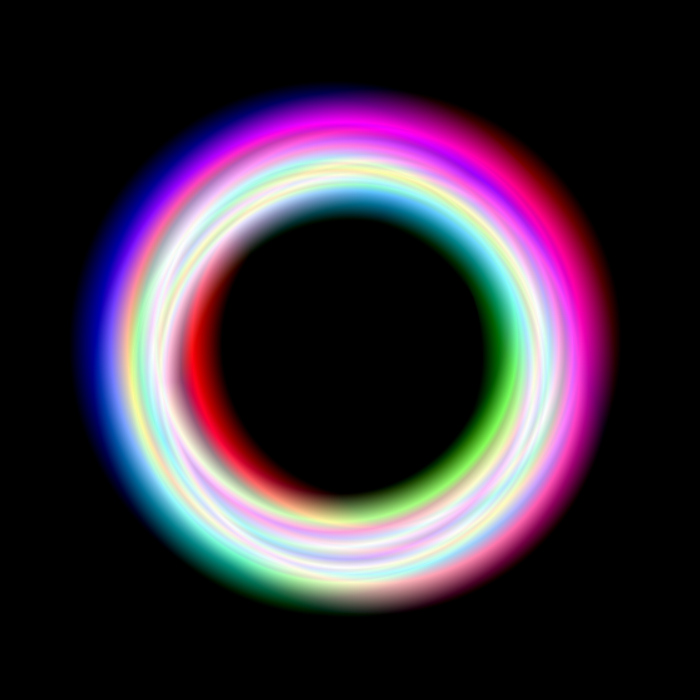
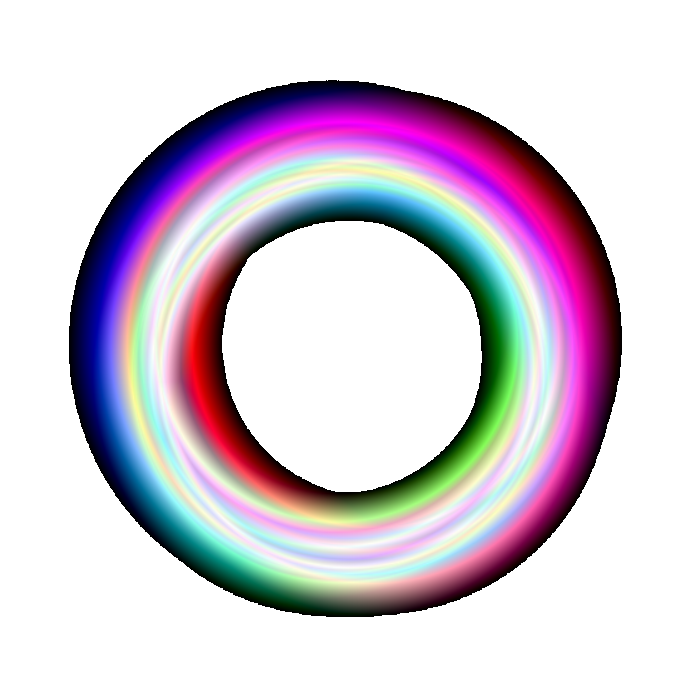
[master] Suppression jQuery

diff --git a/public/bundle.js b/public/bundle.js
@@ -1,1 +1,1 @@
-!function(t){var e={};function n(r){if(e[r])return e[r].exports;var o=e[r]={i:r,l:!1,exports:{}};return t[r].call(o.exports,o,o.exports,n),o.l=!0,o.exports}n.m=t,n.c=e,n.d=function(t,e,r){n.o(t,e)||Object.defineProperty(t,e,{enumerable:!0,get:r})},n.r=function(t){"undefined"!=typeof Symbol&&Symbol.toStringTag&&Object.defineProperty(t,Symbol.toStringTag,{value:"Module"}),Object.defineProperty(t,"__esModule",{value:!0})},n.t=function(t,e){if(1&e&&(t=n(t)),8&e)return t;if(4&e&&"object"==typeof t&&t&&t.__esModule)return t;var r=Object.create(null);if(n.r(r),Object.defineProperty(r,"default",{enumerable:!0,value:t}),2&e&&"string"!=typeof t)for(var o in t)n.d(r,o,function(e){return t[e]}.bind(null,o));return r},n.n=function(t){var e=t&&t.__esModule?function(){return t.default}:function(){return t};return n.d(e,"a",e),e},n.o=function(t,e){return Object.prototype.hasOwnProperty.call(t,e)},n.p="",n(n.s=7)}([function(t,e,n){"use strict";t.exports=function(t){var e=[];return e.toString=function(){return this.map((function(e){var n=function(t,e){var n=t[1]||"",r=t[3];if(!r)return n;if(e&&"function"==typeof btoa){var o=(a=r,s=btoa(unescape(encodeURIComponent(JSON.stringify(a)))),c="sourceMappingURL=data:application/json;charset=utf-8;base64,".concat(s),"/*# ".concat(c," */")),i=r.sources.map((function(t){return"/*# sourceURL=".concat(r.sourceRoot||"").concat(t," */")}));return[n].concat(i).concat([o]).join("\n")}var a,s,c;return[n].join("\n")}(e,t);return e[2]?"@media ".concat(e[2]," {").concat(n,"}"):n})).join("")},e.i=function(t,n,r){"string"==typeof t&&(t=[[null,t,""]]);var o={};if(r)for(var i=0;i<this.length;i++){var a=this[i][0];null!=a&&(o[a]=!0)}for(var s=0;s<t.length;s++){var c=[].concat(t[s]);r&&o[c[0]]||(n&&(c[2]?c[2]="".concat(n," and ").concat(c[2]):c[2]=n),e.push(c))}},e}},function(t,e,n){var r,o,i={},a=(r=function(){return window&&document&&document.all&&!window.atob},function(){return void 0===o&&(o=r.apply(this,arguments)),o}),s=function(t,e){return e?e.querySelector(t):document.querySelector(t)},c=function(t){var e={};return function(t,n){if("function"==typeof t)return t();if(void 0===e[t]){var r=s.call(this,t,n);if(window.HTMLIFrameElement&&r instanceof window.HTMLIFrameElement)try{r=r.contentDocument.head}catch(t){r=null}e[t]=r}return e[t]}}(),u=null,l=0,f=[],d=n(4);function h(t,e){for(var n=0;n<t.length;n++){var r=t[n],o=i[r.id];if(o){o.refs++;for(var a=0;a<o.parts.length;a++)o.parts[a](r.parts[a]);for(;a<r.parts.length;a++)o.parts.push(m(r.parts[a],e))}else{var s=[];for(a=0;a<r.parts.length;a++)s.push(m(r.parts[a],e));i[r.id]={id:r.id,refs:1,parts:s}}}}function p(t,e){for(var n=[],r={},o=0;o<t.length;o++){var i=t[o],a=e.base?i[0]+e.base:i[0],s={css:i[1],media:i[2],sourceMap:i[3]};r[a]?r[a].parts.push(s):n.push(r[a]={id:a,parts:[s]})}return n}function v(t,e){var n=c(t.insertInto);if(!n)throw new Error("Couldn't find a style target. This probably means that the value for the 'insertInto' parameter is invalid.");var r=f[f.length-1];if("top"===t.insertAt)r?r.nextSibling?n.insertBefore(e,r.nextSibling):n.appendChild(e):n.insertBefore(e,n.firstChild),f.push(e);else if("bottom"===t.insertAt)n.appendChild(e);else{if("object"!=typeof t.insertAt||!t.insertAt.before)throw new Error("[Style Loader]\n\n Invalid value for parameter 'insertAt' ('options.insertAt') found.\n Must be 'top', 'bottom', or Object.\n (https://github.com/webpack-contrib/style-loader#insertat)\n");var o=c(t.insertAt.before,n);n.insertBefore(e,o)}}function g(t){if(null===t.parentNode)return!1;t.parentNode.removeChild(t);var e=f.indexOf(t);e>=0&&f.splice(e,1)}function b(t){var e=document.createElement("style");if(void 0===t.attrs.type&&(t.attrs.type="text/css"),void 0===t.attrs.nonce){var r=function(){0;return n.nc}();r&&(t.attrs.nonce=r)}return y(e,t.attrs),v(t,e),e}function y(t,e){Object.keys(e).forEach((function(n){t.setAttribute(n,e[n])}))}function m(t,e){var n,r,o,i;if(e.transform&&t.css){if(!(i="function"==typeof e.transform?e.transform(t.css):e.transform.default(t.css)))return function(){};t.css=i}if(e.singleton){var a=l++;n=u||(u=b(e)),r=S.bind(null,n,a,!1),o=S.bind(null,n,a,!0)}else t.sourceMap&&"function"==typeof URL&&"function"==typeof URL.createObjectURL&&"function"==typeof URL.revokeObjectURL&&"function"==typeof Blob&&"function"==typeof btoa?(n=function(t){var e=document.createElement("link");return void 0===t.attrs.type&&(t.attrs.type="text/css"),t.attrs.rel="stylesheet",y(e,t.attrs),v(t,e),e}(e),r=j.bind(null,n,e),o=function(){g(n),n.href&&URL.revokeObjectURL(n.href)}):(n=b(e),r=M.bind(null,n),o=function(){g(n)});return r(t),function(e){if(e){if(e.css===t.css&&e.media===t.media&&e.sourceMap===t.sourceMap)return;r(t=e)}else o()}}t.exports=function(t,e){if("undefined"!=typeof DEBUG&&DEBUG&&"object"!=typeof document)throw new Error("The style-loader cannot be used in a non-browser environment");(e=e||{}).attrs="object"==typeof e.attrs?e.attrs:{},e.singleton||"boolean"==typeof e.singleton||(e.singleton=a()),e.insertInto||(e.insertInto="head"),e.insertAt||(e.insertAt="bottom");var n=p(t,e);return h(n,e),function(t){for(var r=[],o=0;o<n.length;o++){var a=n[o];(s=i[a.id]).refs--,r.push(s)}t&&h(p(t,e),e);for(o=0;o<r.length;o++){var s;if(0===(s=r[o]).refs){for(var c=0;c<s.parts.length;c++)s.parts[c]();delete i[s.id]}}}};var x,w=(x=[],function(t,e){return x[t]=e,x.filter(Boolean).join("\n")});function S(t,e,n,r){var o=n?"":r.css;if(t.styleSheet)t.styleSheet.cssText=w(e,o);else{var i=document.createTextNode(o),a=t.childNodes;a[e]&&t.removeChild(a[e]),a.length?t.insertBefore(i,a[e]):t.appendChild(i)}}function M(t,e){var n=e.css,r=e.media;if(r&&t.setAttribute("media",r),t.styleSheet)t.styleSheet.cssText=n;else{for(;t.firstChild;)t.removeChild(t.firstChild);t.appendChild(document.createTextNode(n))}}function j(t,e,n){var r=n.css,o=n.sourceMap,i=void 0===e.convertToAbsoluteUrls&&o;(e.convertToAbsoluteUrls||i)&&(r=d(r)),o&&(r+="\n/*# sourceMappingURL=data:application/json;base64,"+btoa(unescape(encodeURIComponent(JSON.stringify(o))))+" */");var a=new Blob([r],{type:"text/css"}),s=t.href;t.href=URL.createObjectURL(a),s&&URL.revokeObjectURL(s)}},function(t,e,n){var r=n(3);"string"==typeof r&&(r=[[t.i,r,""]]);var o={hmr:!0,transform:void 0,insertInto:void 0};n(1)(r,o);r.locals&&(t.exports=r.locals)},function(t,e,n){(e=n(0)(!1)).push([t.i,"/* http://meyerweb.com/eric/tools/css/reset/ \n   v2.0 | 20110126\n   License: none (public domain)\n*/\n\nhtml, body, div, span, applet, object, iframe,\nh1, h2, h3, h4, h5, h6, p, blockquote, pre,\na, abbr, acronym, address, big, cite, code,\ndel, dfn, em, img, ins, kbd, q, s, samp,\nsmall, strike, strong, sub, sup, tt, var,\nb, u, i, center,\ndl, dt, dd, ol, ul, li,\nfieldset, form, label, legend,\ntable, caption, tbody, tfoot, thead, tr, th, td,\narticle, aside, canvas, details, embed, \nfigure, figcaption, footer, header, hgroup, \nmenu, nav, output, ruby, section, summary,\ntime, mark, audio, video {\n\tmargin: 0;\n\tpadding: 0;\n\tborder: 0;\n\tvertical-align: baseline;\n\tbox-sizing: border-box;\n}\n/* HTML5 display-role reset for older browsers */\narticle, aside, details, figcaption, figure, \nfooter, header, hgroup, menu, nav, section {\n\tdisplay: block;\n}\nbody {\n\tline-height: 1;\n}\nol, ul {\n\tlist-style: none;\n}\nblockquote, q {\n\tquotes: none;\n}\nblockquote:before, blockquote:after,\nq:before, q:after {\n\tcontent: '';\n\tcontent: none;\n}\ntable {\n\tborder-collapse: collapse;\n\tborder-spacing: 0;\n}\na {\n\ttext-decoration:none;  \n\tcursor:pointer;\n}",""]),t.exports=e},function(t,e){t.exports=function(t){var e="undefined"!=typeof window&&window.location;if(!e)throw new Error("fixUrls requires window.location");if(!t||"string"!=typeof t)return t;var n=e.protocol+"//"+e.host,r=n+e.pathname.replace(/\/[^\/]*$/,"/");return t.replace(/url\s*\(((?:[^)(]|\((?:[^)(]+|\([^)(]*\))*\))*)\)/gi,(function(t,e){var o,i=e.trim().replace(/^"(.*)"$/,(function(t,e){return e})).replace(/^'(.*)'$/,(function(t,e){return e}));return/^(#|data:|http:\/\/|https:\/\/|file:\/\/\/|\s*$)/i.test(i)?t:(o=0===i.indexOf("//")?i:0===i.indexOf("/")?n+i:r+i.replace(/^\.\//,""),"url("+JSON.stringify(o)+")")}))}},function(t,e,n){var r=n(6);"string"==typeof r&&(r=[[t.i,r,""]]);var o={hmr:!0,transform:void 0,insertInto:void 0};n(1)(r,o);r.locals&&(t.exports=r.locals)},function(t,e,n){(e=n(0)(!1)).push([t.i,"html, body {\n\twidth:100%;\n\theight:100%;\n\toverflow:hidden;\n}\n\ncanvas {\n\twidth:100%;\n  height:100%;\n  background-color: black;\n}\n",""]),t.exports=e},function(t,e,n){"use strict";n.r(e);n(2),n(5);function r(t,e){if(!(t instanceof e))throw new TypeError("Cannot call a class as a function")}var o=function t(){var e=this,n=arguments.length>0&&void 0!==arguments[0]?arguments[0]:"canvas";r(this,t),this.resizeCanvas=function(){canvas.width=canvas.clientWidth,canvas.height=canvas.clientHeight,e.width=canvas.width,e.height=canvas.height,e.minLength=Math.min(e.width,e.height),e.origin={x:e.width/2,y:e.height/2},e.coef={x:e.minLength/100,y:e.minLength/100}},this.getX=function(t){return e.origin.x+t*e.coef.x},this.getY=function(t){return e.origin.y+t*e.coef.y},this.moveTo=function(t,n){e.ctx.moveTo(e.getX(t),e.getY(n))},this.lineTo=function(t,n){e.ctx.lineTo(e.getX(t),e.getY(n))},this.line=function(t,n,r,o){var i=arguments.length>4&&void 0!==arguments[4]?arguments[4]:null;e.ctx.beginPath(),e.moveTo(t,n),e.lineTo(r,o),i&&(e.ctx.strokeStyle=i),e.ctx.stroke()},this.polygon=function(t,n){e.ctx.fillStyle=n,e.ctx.beginPath(),e.moveTo(t[0][0],t[0][1]);for(var r=1;r<t.length;r++)e.lineTo(t[r][0],t[r][1]);e.ctx.closePath(),e.ctx.fill()},this.circle=function(t,n,r){var o=arguments.length>3&&void 0!==arguments[3]?arguments[3]:null;e.ctx.beginPath(),e.ctx.arc(e.getX(t),e.getY(n),r*e.coef.x,0,2*Math.PI),o&&(e.ctx.strokeStyle=o),e.ctx.stroke()},this.createRadialGradient=function(t,n,r,o,i,a){return e.ctx.createRadialGradient(e.getX(t),e.getY(n),r*e.coef.x,e.getX(o),e.getY(i),a*e.coef.x)},this.saveContext=function(){e.ctx.save()},this.restoreContext=function(){e.saveContext.restore()},this.canvas=document.getElementById(n),this.ctx=canvas.getContext("2d"),this.resizeCanvas()};function i(t,e){return function(t){if(Array.isArray(t))return t}(t)||function(t,e){if("undefined"==typeof Symbol||!(Symbol.iterator in Object(t)))return;var n=[],r=!0,o=!1,i=void 0;try{for(var a,s=t[Symbol.iterator]();!(r=(a=s.next()).done)&&(n.push(a.value),!e||n.length!==e);r=!0);}catch(t){o=!0,i=t}finally{try{r||null==s.return||s.return()}finally{if(o)throw i}}return n}(t,e)||function(t,e){if(!t)return;if("string"==typeof t)return a(t,e);var n=Object.prototype.toString.call(t).slice(8,-1);"Object"===n&&t.constructor&&(n=t.constructor.name);if("Map"===n||"Set"===n)return Array.from(n);if("Arguments"===n||/^(?:Ui|I)nt(?:8|16|32)(?:Clamped)?Array$/.test(n))return a(t,e)}(t,e)||function(){throw new TypeError("Invalid attempt to destructure non-iterable instance.\nIn order to be iterable, non-array objects must have a [Symbol.iterator]() method.")}()}function a(t,e){(null==e||e>t.length)&&(e=t.length);for(var n=0,r=new Array(e);n<e;n++)r[n]=t[n];return r}function s(t,e){if(!(t instanceof e))throw new TypeError("Cannot call a class as a function")}var c=function t(){var e=this,n=arguments.length>0&&void 0!==arguments[0]?arguments[0]:"canvas";s(this,t),this.initScene=function(){e.length=18,e.x=[],e.y=[],e.radius=[],e.radiusOuter=[],e.radiusInner=[],e.lineWidth=[],e.r=[],e.g=[],e.b=[];for(var t=0;t<e.length;t++){e.x[t]=5*(Math.random()-.5),e.y[t]=5*(Math.random()-.5),e.radius[t]=20+5*Math.random(),e.lineWidth[t]=5+2*Math.random(),e.radiusInner[t]=[],e.radiusOuter[t]=[];for(var n=0;n<8;n++)e.radiusOuter[t].push(e.radius[t]+e.lineWidth[t]+5*(Math.random()-.5)),e.radiusInner[t].push(e.radius[t]-e.lineWidth[t]+5*(Math.random()-.5));e.r[t]=t%3==0?255:0,e.g[t]=t%3==1?255:0,e.b[t]=t%3==2?255:0}},this.rotate=function(t,e,n){return[t*Math.cos(n)-e*Math.sin(n),e*Math.cos(n)+t*Math.sin(n)]},this.drawPolygon=function(t,n,r,o,a){for(var s=0,c=0;c<r.length;c++){var u=s+a,l=i(e.rotate(r[c],0,s),2),f=l[0],d=l[1],h=i(e.rotate(0,-o,s),2),p=h[0],v=h[1],g=i(e.rotate(r[(c+1)%r.length],0,u),2),b=g[0],y=g[1],m=i(e.rotate(0,o,u),2),x=m[0],w=m[1];0===c&&e.renderer.ctx.moveTo(e.renderer.getX(t+f),e.renderer.getY(n+d)),e.renderer.ctx.bezierCurveTo(e.renderer.getX(t+f+p),e.renderer.getY(n+d+v),e.renderer.getX(t+b+x),e.renderer.getY(n+y+w),e.renderer.getX(t+b),e.renderer.getY(n+y)),s+=a}e.renderer.ctx.closePath()},this.drawScene=function(){e.renderer.ctx.globalCompositeOperation="lighten";for(var t=0;t<e.length;t++){var n=e.renderer.createRadialGradient(e.x[t],e.y[t],e.radius[t]-e.lineWidth[t]+2,e.x[t],e.y[t],e.radius[t]+e.lineWidth[t]-2);n.addColorStop(0,"rgba(0, 0, 0, 1)"),n.addColorStop(.5,"rgba("+e.r[t]+", "+e.g[t]+", "+e.b[t]+", 1)"),n.addColorStop(1,"rgba(0, 0, 0, 1)"),e.renderer.ctx.fillStyle=n,e.renderer.ctx.beginPath(),e.drawPolygon(e.x[t],e.y[t],e.radiusOuter[t],8,-2*Math.PI/8),e.drawPolygon(e.x[t],e.y[t],e.radiusInner[t],-5,2*Math.PI/8),e.renderer.ctx.fill()}},this.renderer=new o(n),this.initScene(),this.drawScene(),window.onresize=function(t){e.renderer.resizeCanvas(),e.drawScene()}};$(document).ready((function(){new c}))}]);
+!function(t){var e={};function n(r){if(e[r])return e[r].exports;var o=e[r]={i:r,l:!1,exports:{}};return t[r].call(o.exports,o,o.exports,n),o.l=!0,o.exports}n.m=t,n.c=e,n.d=function(t,e,r){n.o(t,e)||Object.defineProperty(t,e,{enumerable:!0,get:r})},n.r=function(t){"undefined"!=typeof Symbol&&Symbol.toStringTag&&Object.defineProperty(t,Symbol.toStringTag,{value:"Module"}),Object.defineProperty(t,"__esModule",{value:!0})},n.t=function(t,e){if(1&e&&(t=n(t)),8&e)return t;if(4&e&&"object"==typeof t&&t&&t.__esModule)return t;var r=Object.create(null);if(n.r(r),Object.defineProperty(r,"default",{enumerable:!0,value:t}),2&e&&"string"!=typeof t)for(var o in t)n.d(r,o,function(e){return t[e]}.bind(null,o));return r},n.n=function(t){var e=t&&t.__esModule?function(){return t.default}:function(){return t};return n.d(e,"a",e),e},n.o=function(t,e){return Object.prototype.hasOwnProperty.call(t,e)},n.p="",n(n.s=7)}([function(t,e,n){"use strict";t.exports=function(t){var e=[];return e.toString=function(){return this.map((function(e){var n=function(t,e){var n=t[1]||"",r=t[3];if(!r)return n;if(e&&"function"==typeof btoa){var o=(a=r,s=btoa(unescape(encodeURIComponent(JSON.stringify(a)))),c="sourceMappingURL=data:application/json;charset=utf-8;base64,".concat(s),"/*# ".concat(c," */")),i=r.sources.map((function(t){return"/*# sourceURL=".concat(r.sourceRoot||"").concat(t," */")}));return[n].concat(i).concat([o]).join("\n")}var a,s,c;return[n].join("\n")}(e,t);return e[2]?"@media ".concat(e[2]," {").concat(n,"}"):n})).join("")},e.i=function(t,n,r){"string"==typeof t&&(t=[[null,t,""]]);var o={};if(r)for(var i=0;i<this.length;i++){var a=this[i][0];null!=a&&(o[a]=!0)}for(var s=0;s<t.length;s++){var c=[].concat(t[s]);r&&o[c[0]]||(n&&(c[2]?c[2]="".concat(n," and ").concat(c[2]):c[2]=n),e.push(c))}},e}},function(t,e,n){var r,o,i={},a=(r=function(){return window&&document&&document.all&&!window.atob},function(){return void 0===o&&(o=r.apply(this,arguments)),o}),s=function(t,e){return e?e.querySelector(t):document.querySelector(t)},c=function(t){var e={};return function(t,n){if("function"==typeof t)return t();if(void 0===e[t]){var r=s.call(this,t,n);if(window.HTMLIFrameElement&&r instanceof window.HTMLIFrameElement)try{r=r.contentDocument.head}catch(t){r=null}e[t]=r}return e[t]}}(),u=null,l=0,f=[],d=n(4);function h(t,e){for(var n=0;n<t.length;n++){var r=t[n],o=i[r.id];if(o){o.refs++;for(var a=0;a<o.parts.length;a++)o.parts[a](r.parts[a]);for(;a<r.parts.length;a++)o.parts.push(m(r.parts[a],e))}else{var s=[];for(a=0;a<r.parts.length;a++)s.push(m(r.parts[a],e));i[r.id]={id:r.id,refs:1,parts:s}}}}function p(t,e){for(var n=[],r={},o=0;o<t.length;o++){var i=t[o],a=e.base?i[0]+e.base:i[0],s={css:i[1],media:i[2],sourceMap:i[3]};r[a]?r[a].parts.push(s):n.push(r[a]={id:a,parts:[s]})}return n}function v(t,e){var n=c(t.insertInto);if(!n)throw new Error("Couldn't find a style target. This probably means that the value for the 'insertInto' parameter is invalid.");var r=f[f.length-1];if("top"===t.insertAt)r?r.nextSibling?n.insertBefore(e,r.nextSibling):n.appendChild(e):n.insertBefore(e,n.firstChild),f.push(e);else if("bottom"===t.insertAt)n.appendChild(e);else{if("object"!=typeof t.insertAt||!t.insertAt.before)throw new Error("[Style Loader]\n\n Invalid value for parameter 'insertAt' ('options.insertAt') found.\n Must be 'top', 'bottom', or Object.\n (https://github.com/webpack-contrib/style-loader#insertat)\n");var o=c(t.insertAt.before,n);n.insertBefore(e,o)}}function g(t){if(null===t.parentNode)return!1;t.parentNode.removeChild(t);var e=f.indexOf(t);e>=0&&f.splice(e,1)}function b(t){var e=document.createElement("style");if(void 0===t.attrs.type&&(t.attrs.type="text/css"),void 0===t.attrs.nonce){var r=function(){0;return n.nc}();r&&(t.attrs.nonce=r)}return y(e,t.attrs),v(t,e),e}function y(t,e){Object.keys(e).forEach((function(n){t.setAttribute(n,e[n])}))}function m(t,e){var n,r,o,i;if(e.transform&&t.css){if(!(i="function"==typeof e.transform?e.transform(t.css):e.transform.default(t.css)))return function(){};t.css=i}if(e.singleton){var a=l++;n=u||(u=b(e)),r=S.bind(null,n,a,!1),o=S.bind(null,n,a,!0)}else t.sourceMap&&"function"==typeof URL&&"function"==typeof URL.createObjectURL&&"function"==typeof URL.revokeObjectURL&&"function"==typeof Blob&&"function"==typeof btoa?(n=function(t){var e=document.createElement("link");return void 0===t.attrs.type&&(t.attrs.type="text/css"),t.attrs.rel="stylesheet",y(e,t.attrs),v(t,e),e}(e),r=j.bind(null,n,e),o=function(){g(n),n.href&&URL.revokeObjectURL(n.href)}):(n=b(e),r=M.bind(null,n),o=function(){g(n)});return r(t),function(e){if(e){if(e.css===t.css&&e.media===t.media&&e.sourceMap===t.sourceMap)return;r(t=e)}else o()}}t.exports=function(t,e){if("undefined"!=typeof DEBUG&&DEBUG&&"object"!=typeof document)throw new Error("The style-loader cannot be used in a non-browser environment");(e=e||{}).attrs="object"==typeof e.attrs?e.attrs:{},e.singleton||"boolean"==typeof e.singleton||(e.singleton=a()),e.insertInto||(e.insertInto="head"),e.insertAt||(e.insertAt="bottom");var n=p(t,e);return h(n,e),function(t){for(var r=[],o=0;o<n.length;o++){var a=n[o];(s=i[a.id]).refs--,r.push(s)}t&&h(p(t,e),e);for(o=0;o<r.length;o++){var s;if(0===(s=r[o]).refs){for(var c=0;c<s.parts.length;c++)s.parts[c]();delete i[s.id]}}}};var x,w=(x=[],function(t,e){return x[t]=e,x.filter(Boolean).join("\n")});function S(t,e,n,r){var o=n?"":r.css;if(t.styleSheet)t.styleSheet.cssText=w(e,o);else{var i=document.createTextNode(o),a=t.childNodes;a[e]&&t.removeChild(a[e]),a.length?t.insertBefore(i,a[e]):t.appendChild(i)}}function M(t,e){var n=e.css,r=e.media;if(r&&t.setAttribute("media",r),t.styleSheet)t.styleSheet.cssText=n;else{for(;t.firstChild;)t.removeChild(t.firstChild);t.appendChild(document.createTextNode(n))}}function j(t,e,n){var r=n.css,o=n.sourceMap,i=void 0===e.convertToAbsoluteUrls&&o;(e.convertToAbsoluteUrls||i)&&(r=d(r)),o&&(r+="\n/*# sourceMappingURL=data:application/json;base64,"+btoa(unescape(encodeURIComponent(JSON.stringify(o))))+" */");var a=new Blob([r],{type:"text/css"}),s=t.href;t.href=URL.createObjectURL(a),s&&URL.revokeObjectURL(s)}},function(t,e,n){var r=n(3);"string"==typeof r&&(r=[[t.i,r,""]]);var o={hmr:!0,transform:void 0,insertInto:void 0};n(1)(r,o);r.locals&&(t.exports=r.locals)},function(t,e,n){(e=n(0)(!1)).push([t.i,"/* http://meyerweb.com/eric/tools/css/reset/ \n   v2.0 | 20110126\n   License: none (public domain)\n*/\n\nhtml, body, div, span, applet, object, iframe,\nh1, h2, h3, h4, h5, h6, p, blockquote, pre,\na, abbr, acronym, address, big, cite, code,\ndel, dfn, em, img, ins, kbd, q, s, samp,\nsmall, strike, strong, sub, sup, tt, var,\nb, u, i, center,\ndl, dt, dd, ol, ul, li,\nfieldset, form, label, legend,\ntable, caption, tbody, tfoot, thead, tr, th, td,\narticle, aside, canvas, details, embed, \nfigure, figcaption, footer, header, hgroup, \nmenu, nav, output, ruby, section, summary,\ntime, mark, audio, video {\n\tmargin: 0;\n\tpadding: 0;\n\tborder: 0;\n\tvertical-align: baseline;\n\tbox-sizing: border-box;\n}\n/* HTML5 display-role reset for older browsers */\narticle, aside, details, figcaption, figure, \nfooter, header, hgroup, menu, nav, section {\n\tdisplay: block;\n}\nbody {\n\tline-height: 1;\n}\nol, ul {\n\tlist-style: none;\n}\nblockquote, q {\n\tquotes: none;\n}\nblockquote:before, blockquote:after,\nq:before, q:after {\n\tcontent: '';\n\tcontent: none;\n}\ntable {\n\tborder-collapse: collapse;\n\tborder-spacing: 0;\n}\na {\n\ttext-decoration:none;  \n\tcursor:pointer;\n}",""]),t.exports=e},function(t,e){t.exports=function(t){var e="undefined"!=typeof window&&window.location;if(!e)throw new Error("fixUrls requires window.location");if(!t||"string"!=typeof t)return t;var n=e.protocol+"//"+e.host,r=n+e.pathname.replace(/\/[^\/]*$/,"/");return t.replace(/url\s*\(((?:[^)(]|\((?:[^)(]+|\([^)(]*\))*\))*)\)/gi,(function(t,e){var o,i=e.trim().replace(/^"(.*)"$/,(function(t,e){return e})).replace(/^'(.*)'$/,(function(t,e){return e}));return/^(#|data:|http:\/\/|https:\/\/|file:\/\/\/|\s*$)/i.test(i)?t:(o=0===i.indexOf("//")?i:0===i.indexOf("/")?n+i:r+i.replace(/^\.\//,""),"url("+JSON.stringify(o)+")")}))}},function(t,e,n){var r=n(6);"string"==typeof r&&(r=[[t.i,r,""]]);var o={hmr:!0,transform:void 0,insertInto:void 0};n(1)(r,o);r.locals&&(t.exports=r.locals)},function(t,e,n){(e=n(0)(!1)).push([t.i,"html, body {\n\twidth:100%;\n\theight:100%;\n\toverflow:hidden;\n}\n\ncanvas {\n\twidth:100%;\n  height:100%;\n  background-color: black;\n}\n",""]),t.exports=e},function(t,e,n){"use strict";n.r(e);n(2),n(5);function r(t,e){if(!(t instanceof e))throw new TypeError("Cannot call a class as a function")}var o=function t(){var e=this,n=arguments.length>0&&void 0!==arguments[0]?arguments[0]:"canvas";r(this,t),this.resizeCanvas=function(){canvas.width=canvas.clientWidth,canvas.height=canvas.clientHeight,e.width=canvas.width,e.height=canvas.height,e.minLength=Math.min(e.width,e.height),e.origin={x:e.width/2,y:e.height/2},e.coef={x:e.minLength/100,y:e.minLength/100}},this.getX=function(t){return e.origin.x+t*e.coef.x},this.getY=function(t){return e.origin.y+t*e.coef.y},this.moveTo=function(t,n){e.ctx.moveTo(e.getX(t),e.getY(n))},this.lineTo=function(t,n){e.ctx.lineTo(e.getX(t),e.getY(n))},this.line=function(t,n,r,o){var i=arguments.length>4&&void 0!==arguments[4]?arguments[4]:null;e.ctx.beginPath(),e.moveTo(t,n),e.lineTo(r,o),i&&(e.ctx.strokeStyle=i),e.ctx.stroke()},this.polygon=function(t,n){e.ctx.fillStyle=n,e.ctx.beginPath(),e.moveTo(t[0][0],t[0][1]);for(var r=1;r<t.length;r++)e.lineTo(t[r][0],t[r][1]);e.ctx.closePath(),e.ctx.fill()},this.circle=function(t,n,r){var o=arguments.length>3&&void 0!==arguments[3]?arguments[3]:null;e.ctx.beginPath(),e.ctx.arc(e.getX(t),e.getY(n),r*e.coef.x,0,2*Math.PI),o&&(e.ctx.strokeStyle=o),e.ctx.stroke()},this.createRadialGradient=function(t,n,r,o,i,a){return e.ctx.createRadialGradient(e.getX(t),e.getY(n),r*e.coef.x,e.getX(o),e.getY(i),a*e.coef.x)},this.saveContext=function(){e.ctx.save()},this.restoreContext=function(){e.saveContext.restore()},this.canvas=document.getElementById(n),this.ctx=canvas.getContext("2d"),this.resizeCanvas()};function i(t,e){return function(t){if(Array.isArray(t))return t}(t)||function(t,e){if("undefined"==typeof Symbol||!(Symbol.iterator in Object(t)))return;var n=[],r=!0,o=!1,i=void 0;try{for(var a,s=t[Symbol.iterator]();!(r=(a=s.next()).done)&&(n.push(a.value),!e||n.length!==e);r=!0);}catch(t){o=!0,i=t}finally{try{r||null==s.return||s.return()}finally{if(o)throw i}}return n}(t,e)||function(t,e){if(!t)return;if("string"==typeof t)return a(t,e);var n=Object.prototype.toString.call(t).slice(8,-1);"Object"===n&&t.constructor&&(n=t.constructor.name);if("Map"===n||"Set"===n)return Array.from(t);if("Arguments"===n||/^(?:Ui|I)nt(?:8|16|32)(?:Clamped)?Array$/.test(n))return a(t,e)}(t,e)||function(){throw new TypeError("Invalid attempt to destructure non-iterable instance.\nIn order to be iterable, non-array objects must have a [Symbol.iterator]() method.")}()}function a(t,e){(null==e||e>t.length)&&(e=t.length);for(var n=0,r=new Array(e);n<e;n++)r[n]=t[n];return r}function s(t,e){if(!(t instanceof e))throw new TypeError("Cannot call a class as a function")}var c=function t(){var e=this,n=arguments.length>0&&void 0!==arguments[0]?arguments[0]:"canvas";s(this,t),this.initScene=function(){e.length=18,e.x=[],e.y=[],e.radius=[],e.lineWidth=[],e.radiusOuter=[],e.radiusInner=[],e.r=[],e.g=[],e.b=[];for(var t=0;t<e.length;t++){e.x[t]=5*(Math.random()-.5),e.y[t]=5*(Math.random()-.5),e.radius[t]=20+5*Math.random(),e.lineWidth[t]=5+2*Math.random(),e.radiusInner[t]=[],e.radiusOuter[t]=[];for(var n=0;n<8;n++)e.radiusOuter[t].push(e.radius[t]+e.lineWidth[t]+5*(Math.random()-.5)),e.radiusInner[t].push(e.radius[t]-e.lineWidth[t]+5*(Math.random()-.5));e.r[t]=t%3==0?255:0,e.g[t]=t%3==1?255:0,e.b[t]=t%3==2?255:0}},this.drawScene=function(){e.renderer.ctx.globalCompositeOperation="lighten";for(var t=0;t<e.length;t++){var n=e.renderer.createRadialGradient(e.x[t],e.y[t],e.radius[t]-e.lineWidth[t]+2,e.x[t],e.y[t],e.radius[t]+e.lineWidth[t]-2);n.addColorStop(0,"rgba(0, 0, 0, 1)"),n.addColorStop(.5,"rgba("+e.r[t]+", "+e.g[t]+", "+e.b[t]+", 1)"),n.addColorStop(1,"rgba(0, 0, 0, 1)"),e.renderer.ctx.fillStyle=n,e.renderer.ctx.beginPath(),e.drawPolygon(e.x[t],e.y[t],e.radiusOuter[t],8,-2*Math.PI/8),e.drawPolygon(e.x[t],e.y[t],e.radiusInner[t],-5,2*Math.PI/8),e.renderer.ctx.fill()}},this.rotate=function(t,e,n){return[t*Math.cos(n)-e*Math.sin(n),e*Math.cos(n)+t*Math.sin(n)]},this.drawPolygon=function(t,n,r,o,a){for(var s=0,c=0;c<r.length;c++){var u=s+a,l=i(e.rotate(r[c],0,s),2),f=l[0],d=l[1],h=i(e.rotate(0,-o,s),2),p=h[0],v=h[1],g=i(e.rotate(r[(c+1)%r.length],0,u),2),b=g[0],y=g[1],m=i(e.rotate(0,o,u),2),x=m[0],w=m[1];0===c&&e.renderer.ctx.moveTo(e.renderer.getX(t+f),e.renderer.getY(n+d)),e.renderer.ctx.bezierCurveTo(e.renderer.getX(t+f+p),e.renderer.getY(n+d+v),e.renderer.getX(t+b+x),e.renderer.getY(n+y+w),e.renderer.getX(t+b),e.renderer.getY(n+y)),s+=a}e.renderer.ctx.closePath()},this.renderer=new o(n),this.initScene(),this.drawScene(),window.onresize=function(t){e.renderer.resizeCanvas(),e.drawScene()}};new c}]);

diff --git a/public/index.html b/public/index.html
@@ -43,13 +43,10 @@
     <link rel="apple-touch-icon" href="favicon.png">
     <link rel="shortcut icon" href="favicon.png">
     <link rel="manifest" href="manifest.json" />
-  
-    <script src="jquery.min.js" charset="utf-8"></script>
-    <script src="bundle.js" charset="utf-8"></script>
   </head>
   <body>
     <noscript>You need to enable JavaScript to run this app.</noscript>
     <canvas id="canvas" />
   </body>
-  </html>
-  
+  <script src="bundle.js" charset="utf-8"></script>
+</html>

diff --git a/webpack.config.js b/webpack.config.js
@@ -2,6 +2,7 @@ const webpack = require("webpack")
 const path = require("path")
 
 let config = {
+  mode: "production",
   entry: "./src/index.js",
   output: {
     path: path.resolve(__dirname, "./public"),

diff --git a/src/index.js b/src/index.js
@@ -8,6 +8,4 @@ import './css/index.css'
 
 import { Scene } from './scene'
 
-$(document).ready(() => {
-  const scene = new Scene()
-})
+const scene = new Scene()
